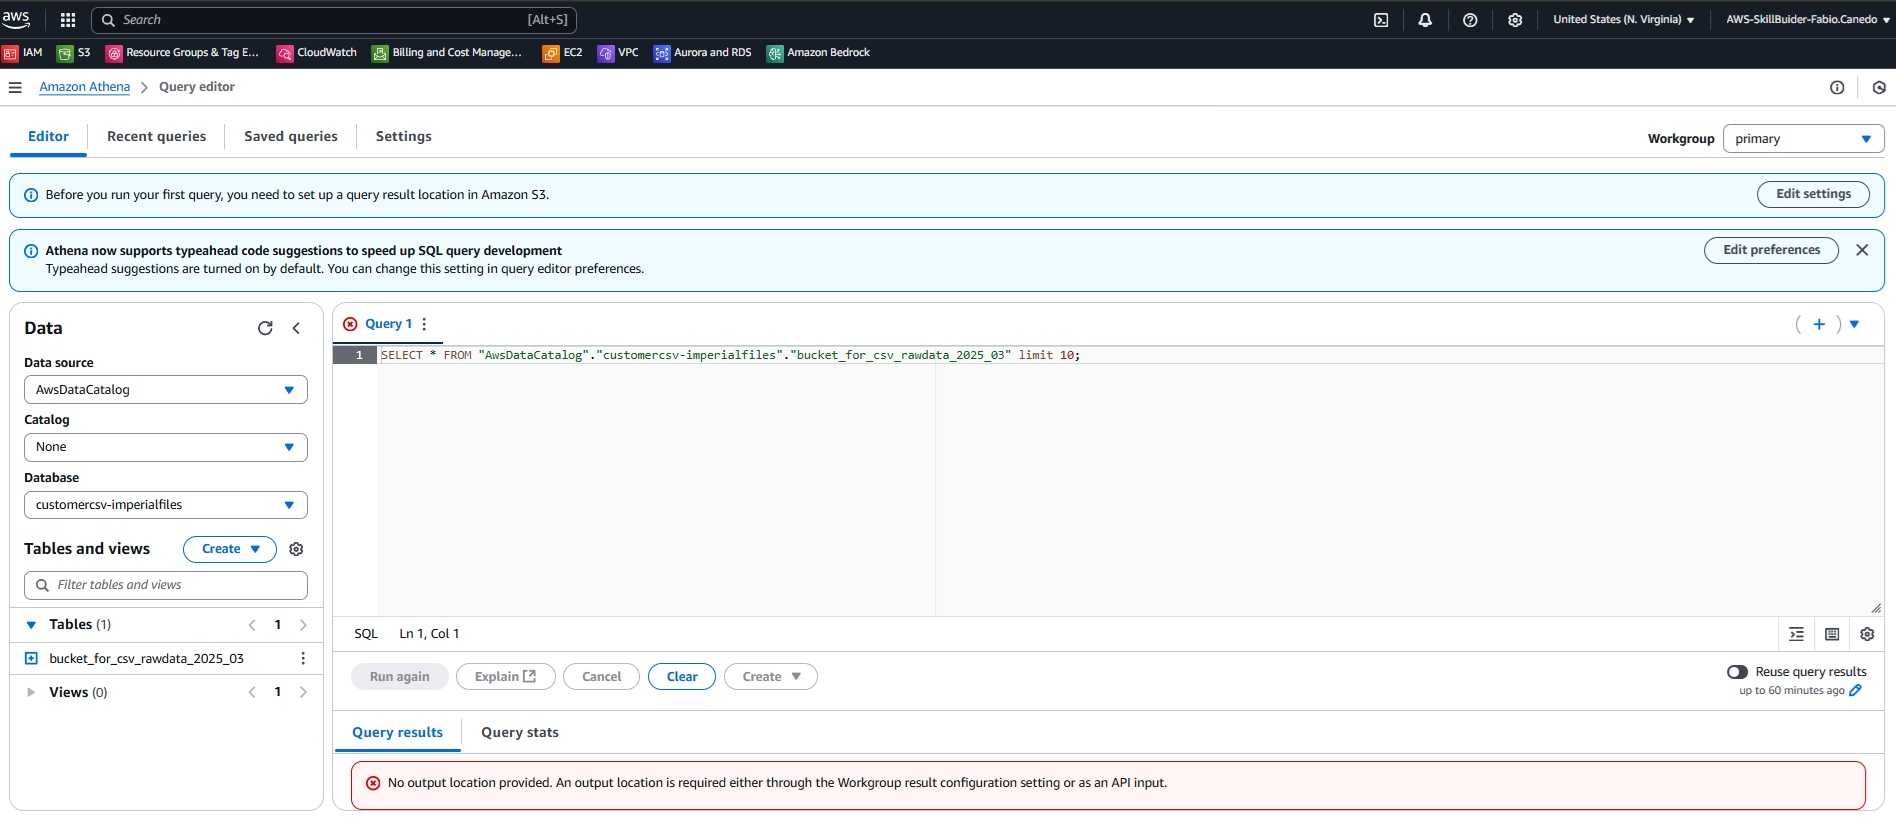
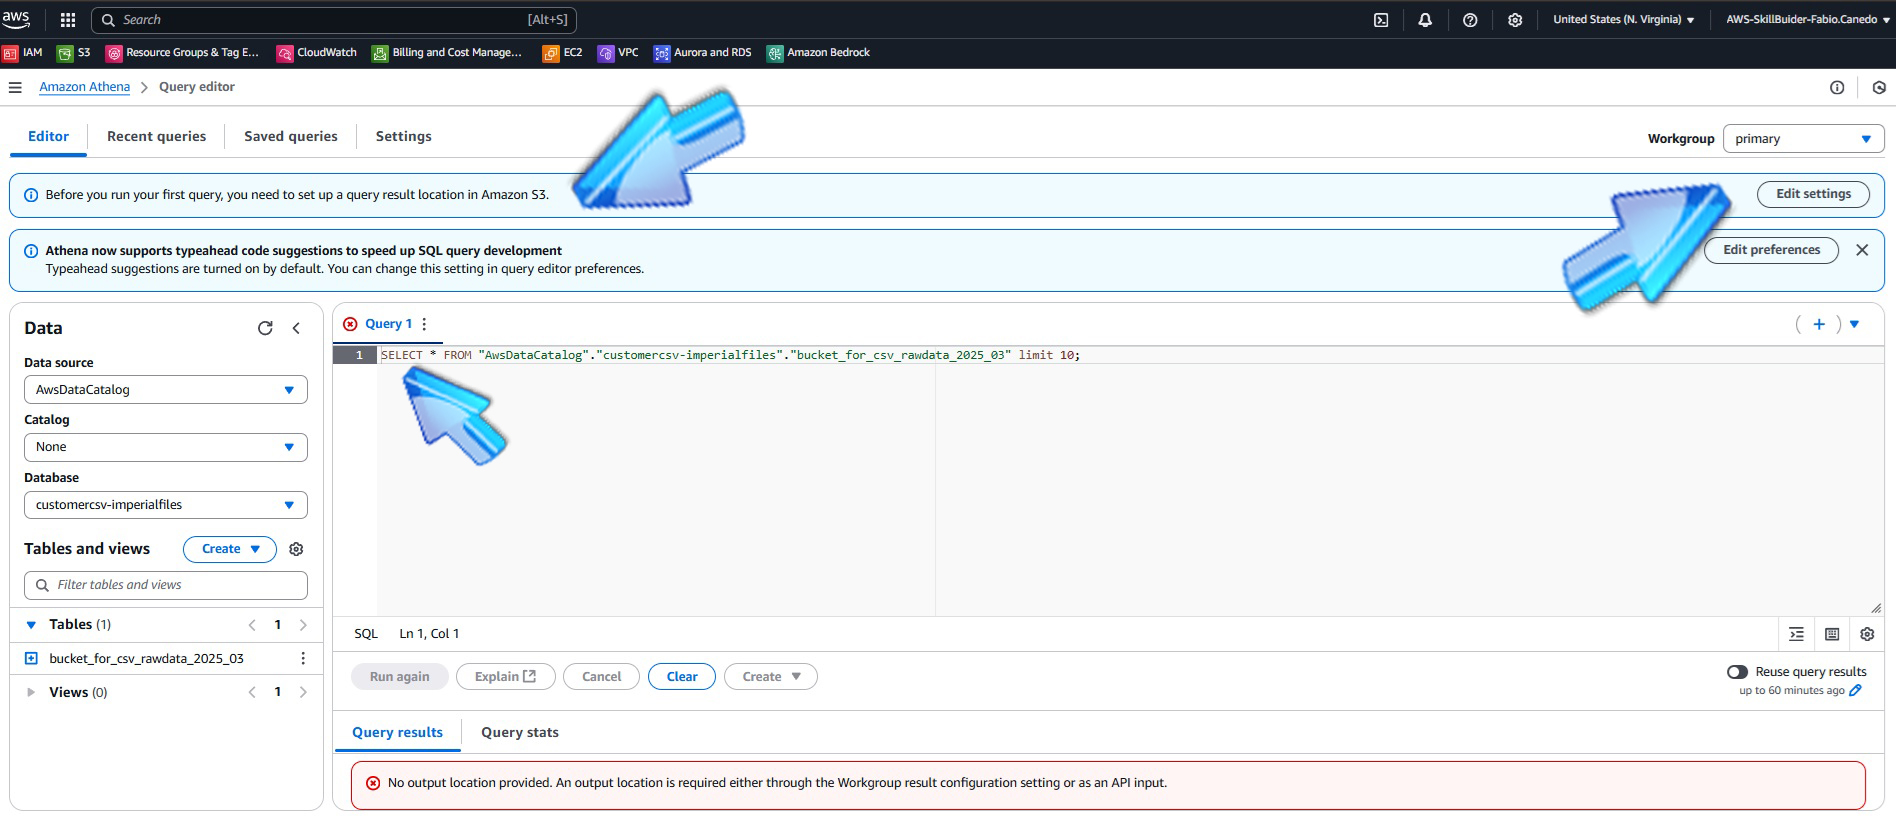
Update AWS Glue documentation image for Athena output query result location

Changed region(s): [[0.8091, 0.2124, 0.9335, 0.3944], [0.2801, 0.091, 0.4045, 0.2731], [0.1867, 0.4248, 0.2801, 0.5765]]

diff --git a/thisisthelab.md b/thisisthelab.md
@@ -204,12 +204,26 @@
 
 ###### ![Brazil](https://github.com/Acheroniano/flag-icon/blob/master/png/16/country-4x3/br.png "Brazil") 
 ###### No menu da esquerda clique em Database e Tables para visualizar informações do banco de dados criado.
+###### Clique em *Table data* para invocar o AWS ATHENA e rodar declarações SQL no banco de dados criado.
+###### Um alerta será emitido sobre cobranças realizadas pelo AWS ATHENA.
 
 ###### ![United States](https://github.com/Acheroniano/flag-icon/blob/master/png/16/country-4x3/us.png "United States") 
 ###### On the left menu click on Database and Tables to view information about the database
+###### Click on *Table data* to invoke AWS ATHENA and run SQL statements in the database.
+###### An alert will be emitted about AWS ATHENA charges.
 
 ![AWS Glue Database Tables](./images/26a-AWSGlueCrawlerDatabaseTables.jpg)
 ![AWS Glue Database View Data](./images/27a-AWSGlueCrawlerDatabaseTablesViewData.jpg)
 
+# 4 - AWS Athena
 
+###### ![Brazil](https://github.com/Acheroniano/flag-icon/blob/master/png/16/country-4x3/br.png "Brazil") 
+###### o AWS ATHENA irá alertar que precisa de um bucket de saída para salvar os resultados dos SQL Queries realizados.
+###### Clique no botão *Edit settings*
+
+###### ![United States](https://github.com/Acheroniano/flag-icon/blob/master/png/16/country-4x3/us.png "United States") 
+###### AWS ATHENA will alert that it needs an output bucket to save the results of the SQL Queries performed.
+###### Click on the *Edit settings* button.
+
+![AWS Athena Output query bucket](./images/28a-AWSAthenaOutputQueryResultLocation.jpg)
 
